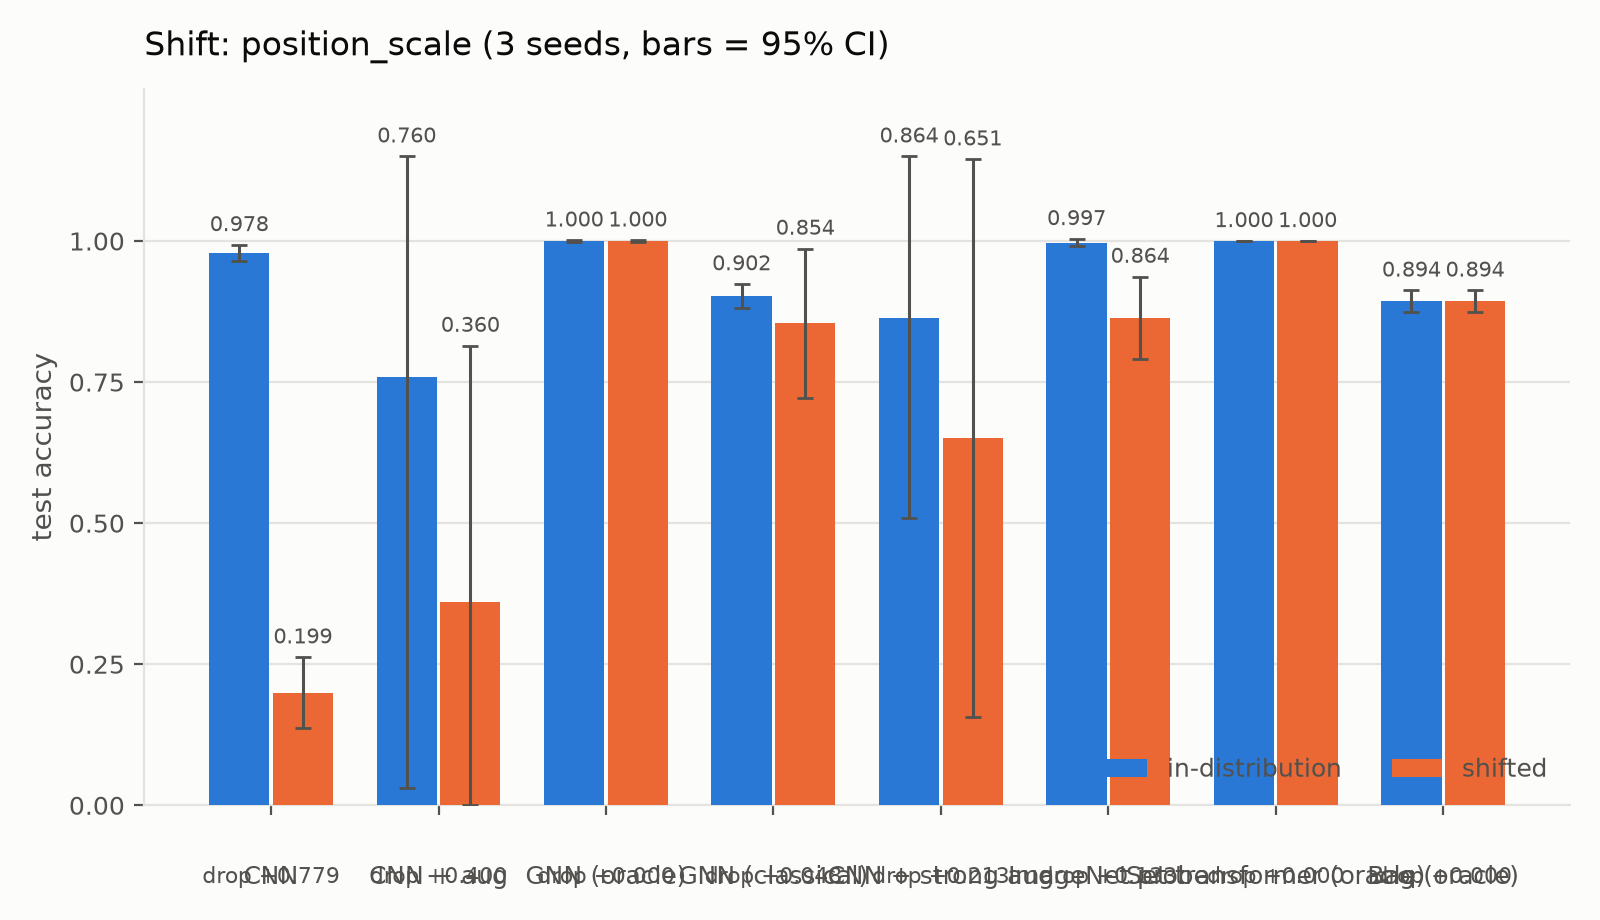
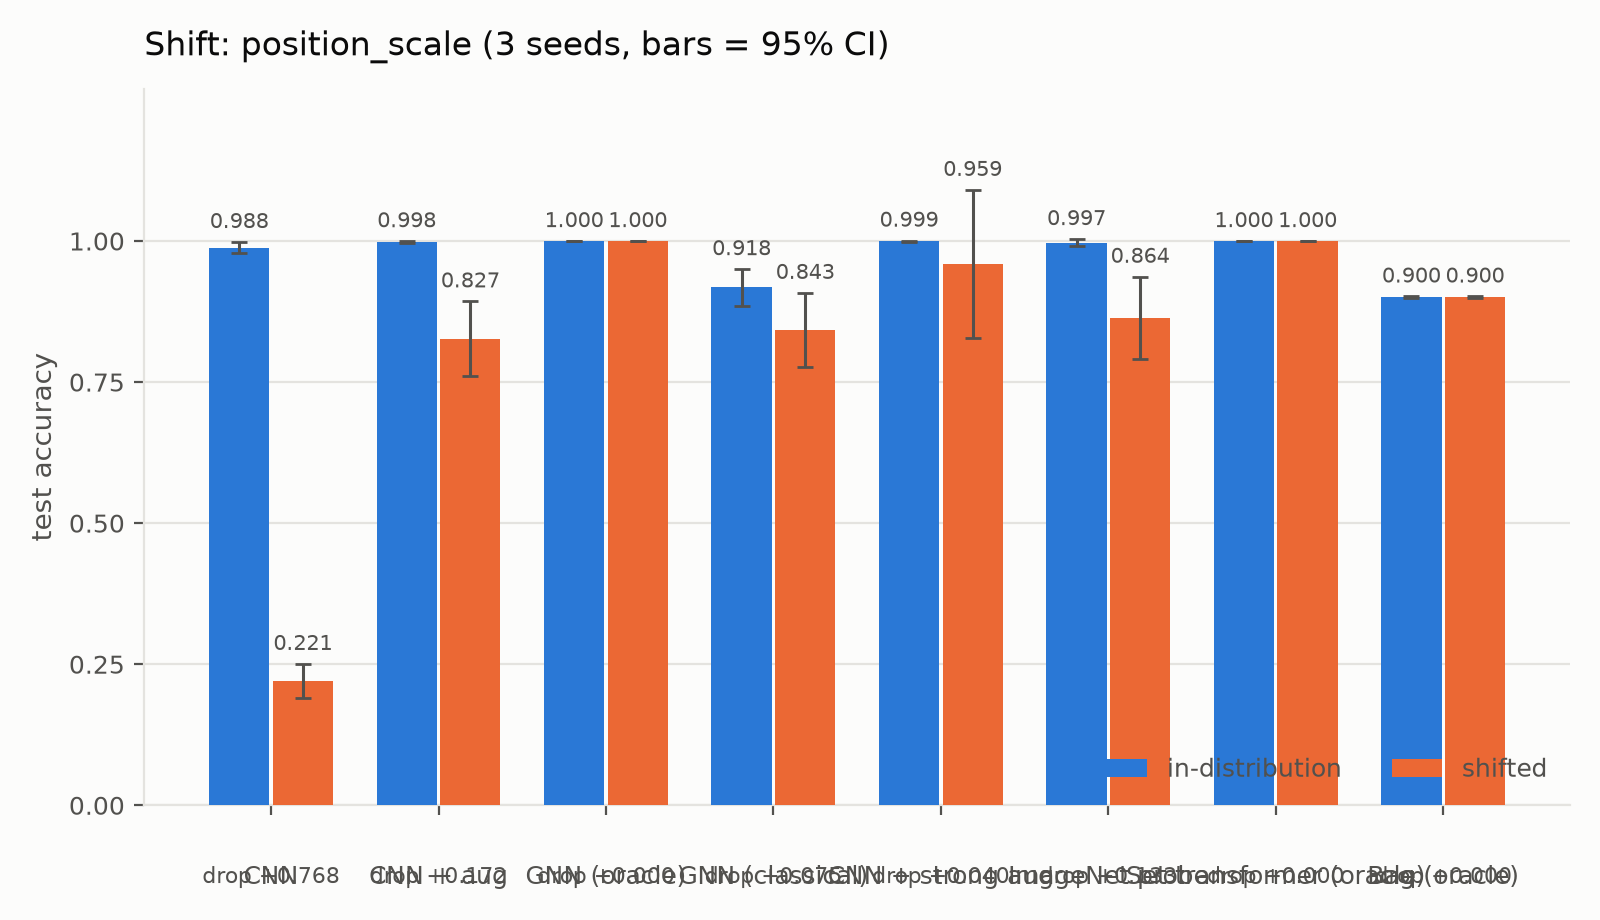
Checkpoint experiment results (shift_position_scale_fewshot plots)
Claude-Session: https://claude.ai/code/session_01SojNaaWHiJoRRuxsTd6pEi

diff --git a/results/phase1/shift_position_scale_fewshot/results.md b/results/phase1/shift_position_scale_fewshot/results.md
@@ -12,11 +12,11 @@ Validation follows the *training* distribution: at selection time the shifted di
 
 | model | in-distribution | shifted | drop | val accuracy | extractor F1 | params |
 |---|---|---|---|---|---|---|
-| CNN | 0.978 ± 0.015 | 0.199 ± 0.063 | 0.779 ± 0.060 | 0.986 ± 0.007 | - | 11,173,962 |
-| CNN + aug | 0.760 ± 0.728 | 0.360 ± 0.455 | 0.400 ± 0.526 | 0.757 ± 0.726 | - | 11,173,962 |
-| GNN (oracle) | 1.000 ± 0.001 | 1.000 ± 0.001 | 0.000 ± 0.000 | 1.000 ± 0.000 | 1.000 ± 0.000 | 57,549 |
-| GNN (classical) | 0.902 ± 0.022 | 0.854 ± 0.133 | 0.048 ± 0.147 | 0.916 ± 0.022 | 0.793 ± 0.000 | 57,549 |
-| CNN + strong aug | 0.864 ± 0.355 | 0.651 ± 0.494 | 0.213 ± 0.139 | 0.867 ± 0.351 | - | 11,173,962 |
+| CNN | 0.988 ± 0.010 | 0.221 ± 0.030 | 0.768 ± 0.020 | 0.991 ± 0.007 | - | 11,173,962 |
+| CNN + aug | 0.998 ± 0.001 | 0.827 ± 0.066 | 0.172 ± 0.065 | 1.000 ± 0.000 | - | 11,173,962 |
+| GNN (oracle) | 1.000 ± 0.000 | 1.000 ± 0.000 | 0.000 ± 0.000 | 1.000 ± 0.000 | 1.000 ± 0.000 | 57,549 |
+| GNN (classical) | 0.918 ± 0.032 | 0.843 ± 0.066 | 0.075 ± 0.043 | 0.927 ± 0.037 | 0.793 ± 0.000 | 57,549 |
+| CNN + strong aug | 0.999 ± 0.001 | 0.959 ± 0.132 | 0.040 ± 0.131 | 1.000 ± 0.000 | - | 11,173,962 |
 | ImageNet probe | 0.997 ± 0.007 | 0.864 ± 0.073 | 0.133 ± 0.067 | 0.998 ± 0.007 | - | 11,181,642 |
 | Set transformer (oracle) | 1.000 ± 0.000 | 1.000 ± 0.000 | 0.000 ± 0.000 | 1.000 ± 0.000 | 1.000 ± 0.000 | 89,290 |
-| Bag (oracle) | 0.894 ± 0.019 | 0.894 ± 0.019 | 0.000 ± 0.000 | 0.908 ± 0.020 | 1.000 ± 0.000 | 5,642 |
+| Bag (oracle) | 0.900 ± 0.001 | 0.900 ± 0.001 | 0.000 ± 0.000 | 0.914 ± 0.039 | 1.000 ± 0.000 | 5,642 |
